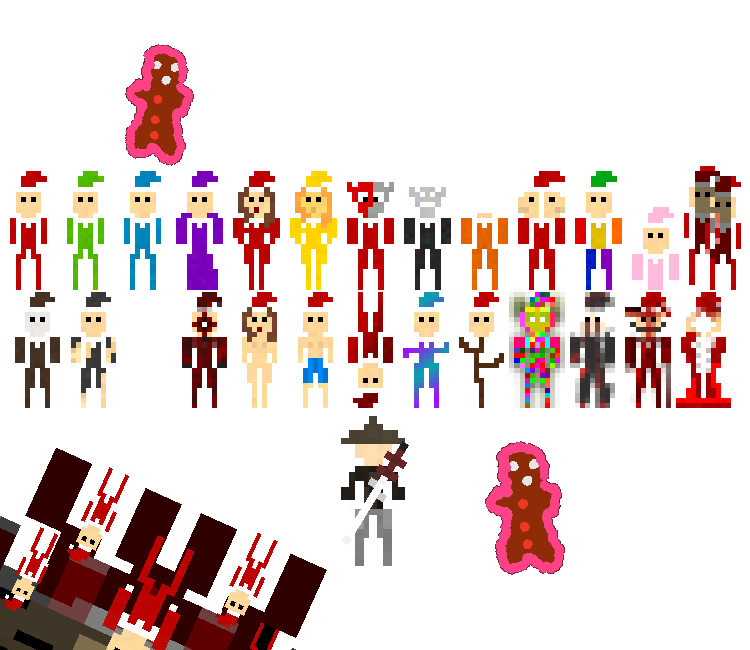
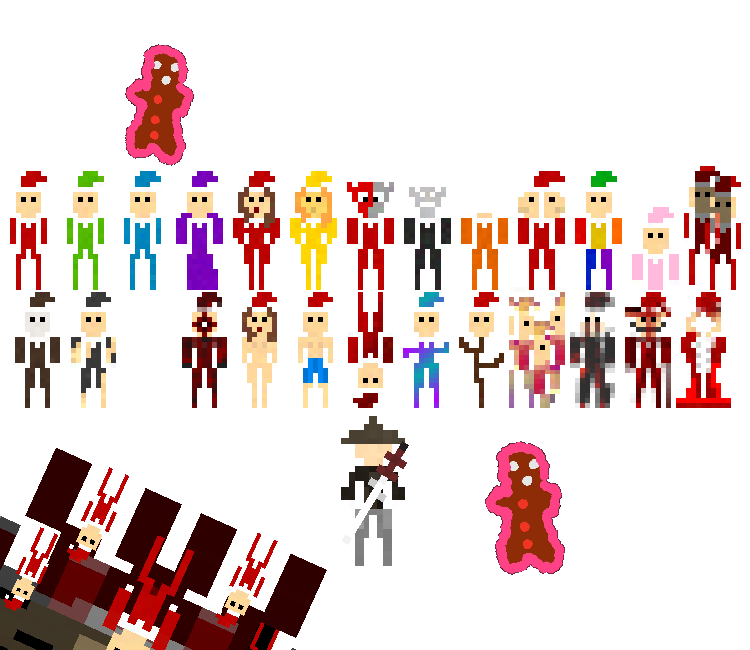
Updated corrupt elf graphics

Changed region(s): [[0.6747, 0.4308, 0.7667, 0.6462]]

diff --git a/elven-custom/runtime/elves/23.js b/elven-custom/runtime/elves/23.js
@@ -1,8 +1,57 @@
 "use strict";
 function CorruptElf() {
+
+    const setTurnSubtext = sequencer => {
+        sequencer.playerBattleObject.subText[0] = `${sequencer.globalBattleState.turnsLeft} turn${sequencer.globalBattleState.turnsLeft !== 1?"s":""} left`;
+    }
+
+    const items = [
+
+    ];
+
+    const questions = [
+
+    ];
+
+    const readyToAnswerMove = {
+        name: "i know who it is!"
+    }
+    const askAQuestionMove = {
+        name: "ask and deduce"
+    }
+    const getCurrentSummaryMove = {
+        name: "current deductions"
+    }
+
+    this.getPlayerMoves = sequencer => {
+        switch(sequencer.globalBattleState.menuPosition) {
+            case "home":
+                return [askAQuestionMove,getCurrentSummaryMove,readyToAnswerMove];
+        }
+    }
+
     this.name = "corrupt elf";
     this.background = "background-6";
     this.backgroundColor = "white";
-    this.foregroundColor = "rgb(255,236,0)";
+
+    this.darkHover = true;
+    this.backgroundCycleTime = 20000;
     this.health = 700;
+
+    this.setup = sequencer => {
+        sequencer.playerBattleObject.subText = [];
+        sequencer.elfBattleObject.subText = ["thinking of an elf"];
+        sequencer.globalBattleState.postTurnProcess = sequencer => {
+
+        }
+        sequencer.globalBattleState.turnsLeft = 10;
+        sequencer.globalBattleState.menuPosition = "home";
+        setTurnSubtext(sequencer);
+    }
+
+    this.startSpeech = {
+        text: "don't you know?\n2.5 heads is better\nthan none\n\nlet's play a game...\nguess who i'm\nthinking of"
+    }
+    this.winSpeech = "";
+    this.loseSpeech = "";
 }

diff --git a/elven-custom/renderers/elf-select-screen.js b/elven-custom/renderers/elf-select-screen.js
@@ -425,9 +425,9 @@ function ElfSelectScreenRenderer(endCallback,highestElfIndex,loadIndex) {
     this.fireEffect = new FireEffect();
     this.fireFlies = new CrazyFlyingShitEffect();
 
-    this.particleField = new ParticleFieldEffect();
-    this.particleWhammer = Math.random() > 0.5 ? new ParticleWhammerEffect() : new FigureEightEffect();
-    this.particleWhammer.calloutFunction = this.particleField.bumpRegion;
+    //this.particleField = new ParticleFieldEffect();
+    //this.particleWhammer = Math.random() > 0.5 ? new ParticleWhammerEffect() : new FigureEightEffect();
+    //this.particleWhammer.calloutFunction = this.particleField.bumpRegion;
 
 
     this.render = timestamp => {
@@ -438,8 +438,8 @@ function ElfSelectScreenRenderer(endCallback,highestElfIndex,loadIndex) {
             this.fireEffect.render(timestamp);
             this.fireFlies.render(timestamp);
         } else if(this.currentIndex === 20) {
-            this.particleField.render(timestamp);
-            this.particleWhammer.render(timestamp);
+            //this.particleField.render(timestamp);
+            //this.particleWhammer.render(timestamp);
         }
 
         if(this.elf.defaultRenderLayers) {

diff --git a/elven-custom/runtime/elves/15.js b/elven-custom/runtime/elves/15.js
@@ -36,7 +36,7 @@ function ScorchedElf() {
         );
         sequencer.renderer.background.color = colorByTemperature;
         sequencer.renderer.rightHealthBar.foregroundColor = colorByTemperature;
-
+/*
         const playbackRate = sequencer.globalBattleState.temperature / startingTemperature;
 
         if(musicNodes["scorched_intro"]) {
@@ -48,7 +48,7 @@ function ScorchedElf() {
             musicNodes["scorched_loop"].playbackRate.setValueAtTime(playbackRate,audioContext.currentTime);
         } else {
             startSpeedManifest["scorched_loop"] = playbackRate;
-        }
+        }*/
 
     }
     const updateTemperatureSubTexts = sequencer => {

diff --git a/elven-one/renderers/overworld-test.js b/elven-one/renderers/overworld-test.js
@@ -359,7 +359,12 @@ function OverworldTestRenderer() {
         return false;
     }
     const updatePlayerPositionX = delta => {
-        const newPos = playerX + delta;
+        let newPos = playerX + delta;
+        if(newPos < 0) {
+            newPos += fullWidth;
+        } else if(newPos > fullWidth) {
+            newPos -= fullWidth;
+        }
         const collisionState = getPlayerCollisionState();
         if(delta > 0) {
             if(!collisionState.right) {
